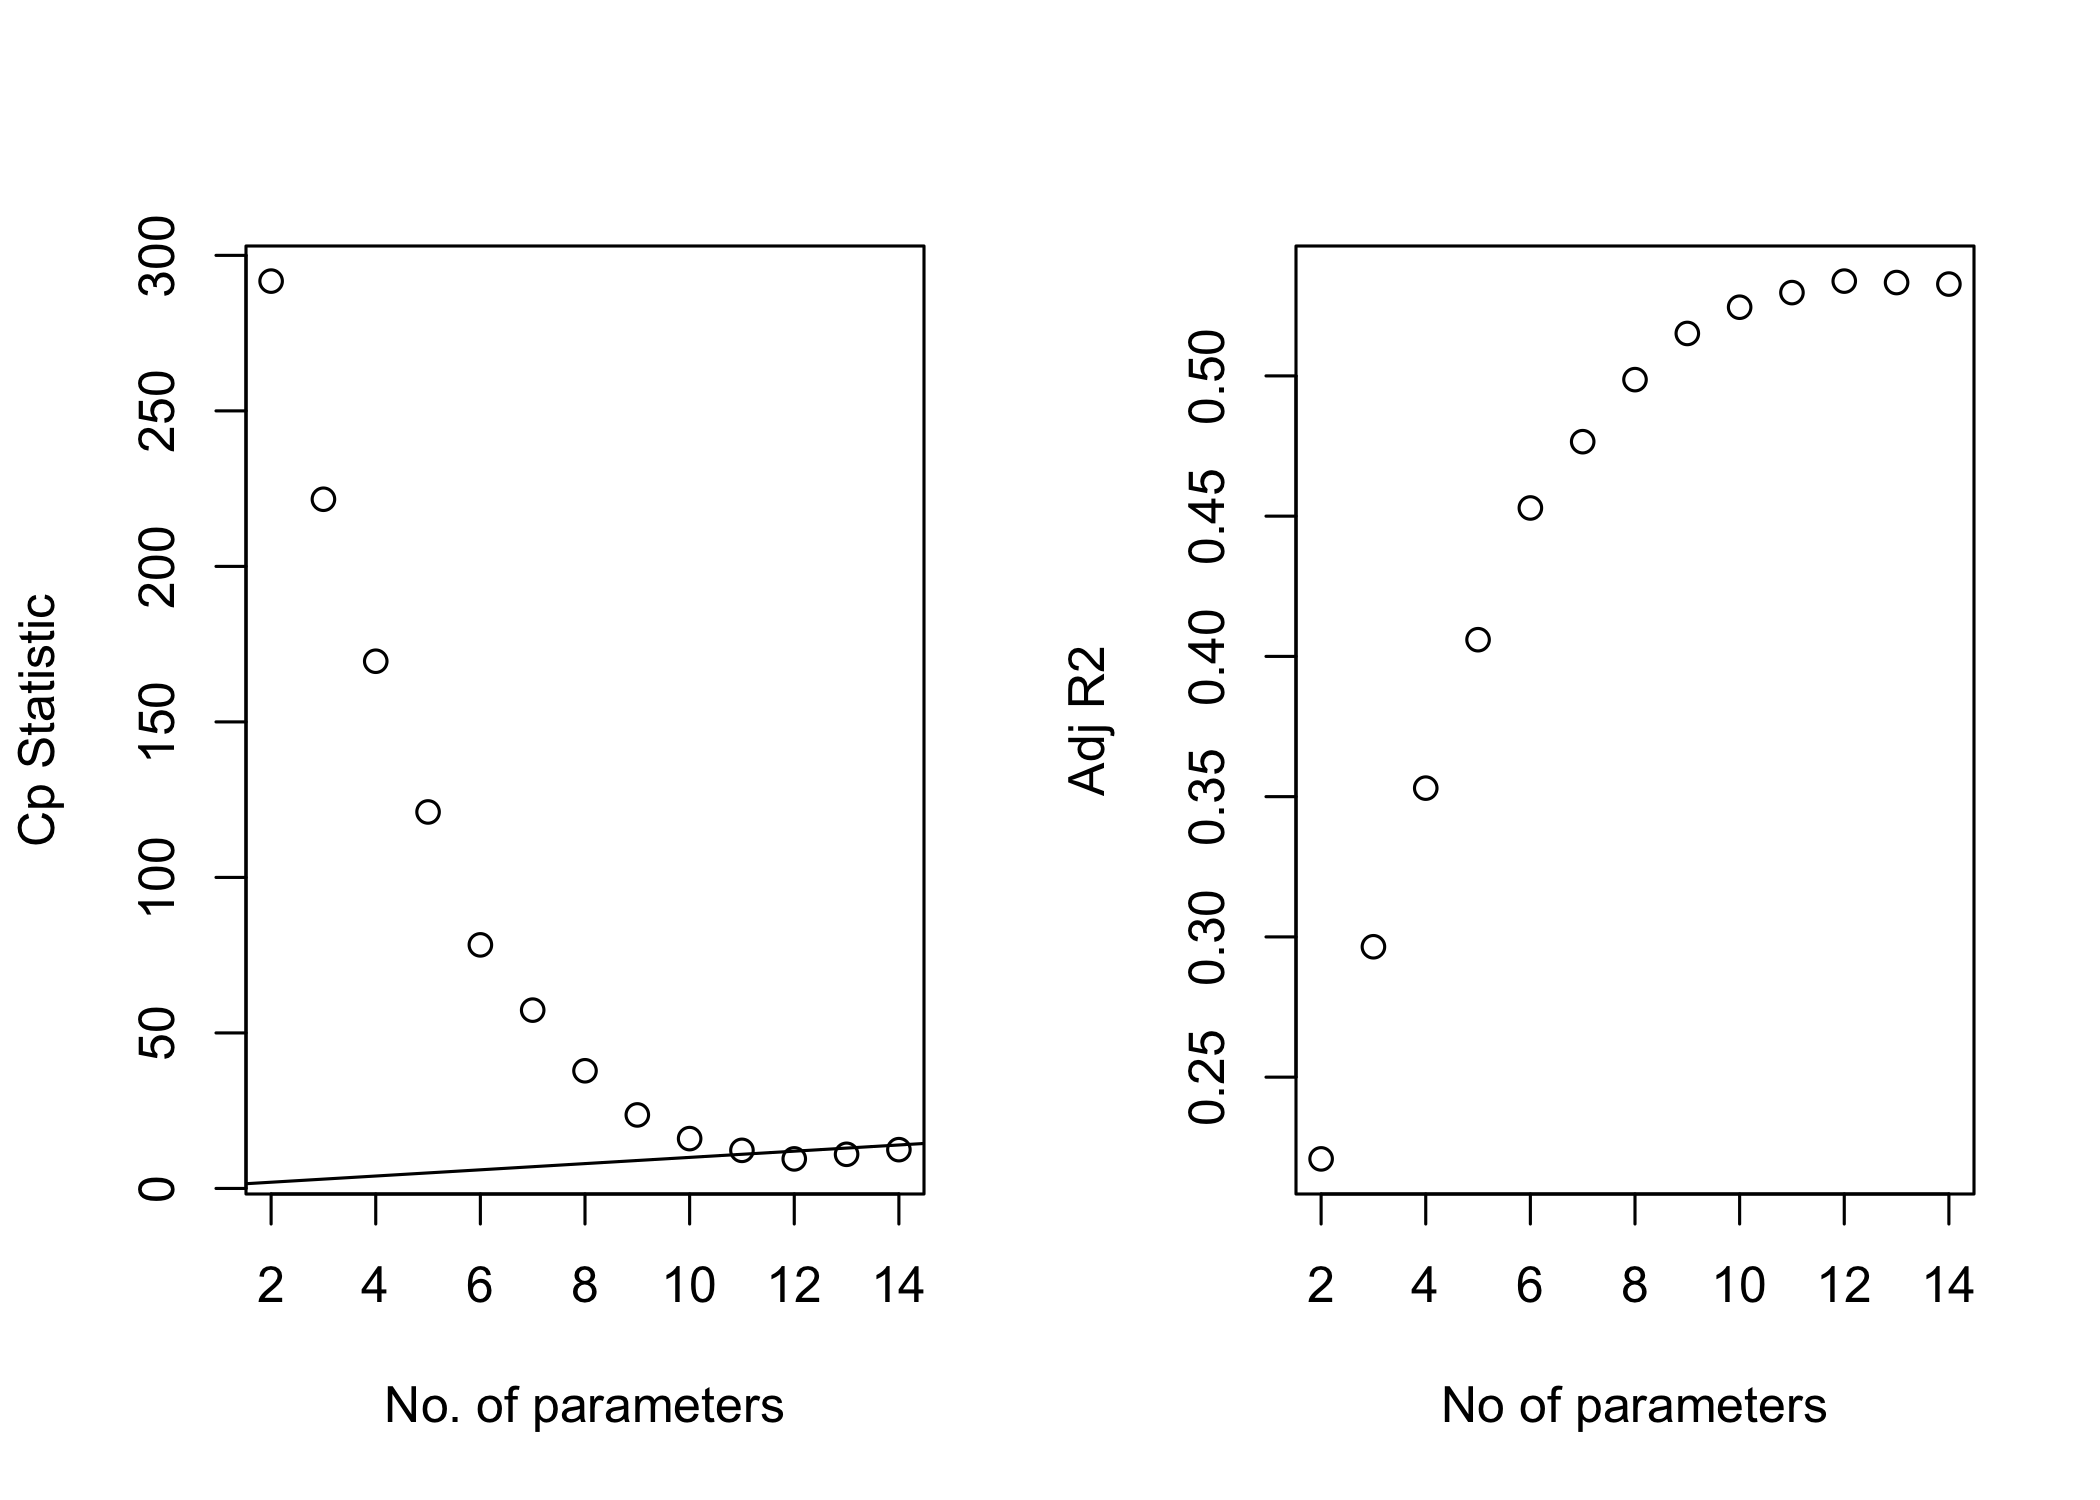
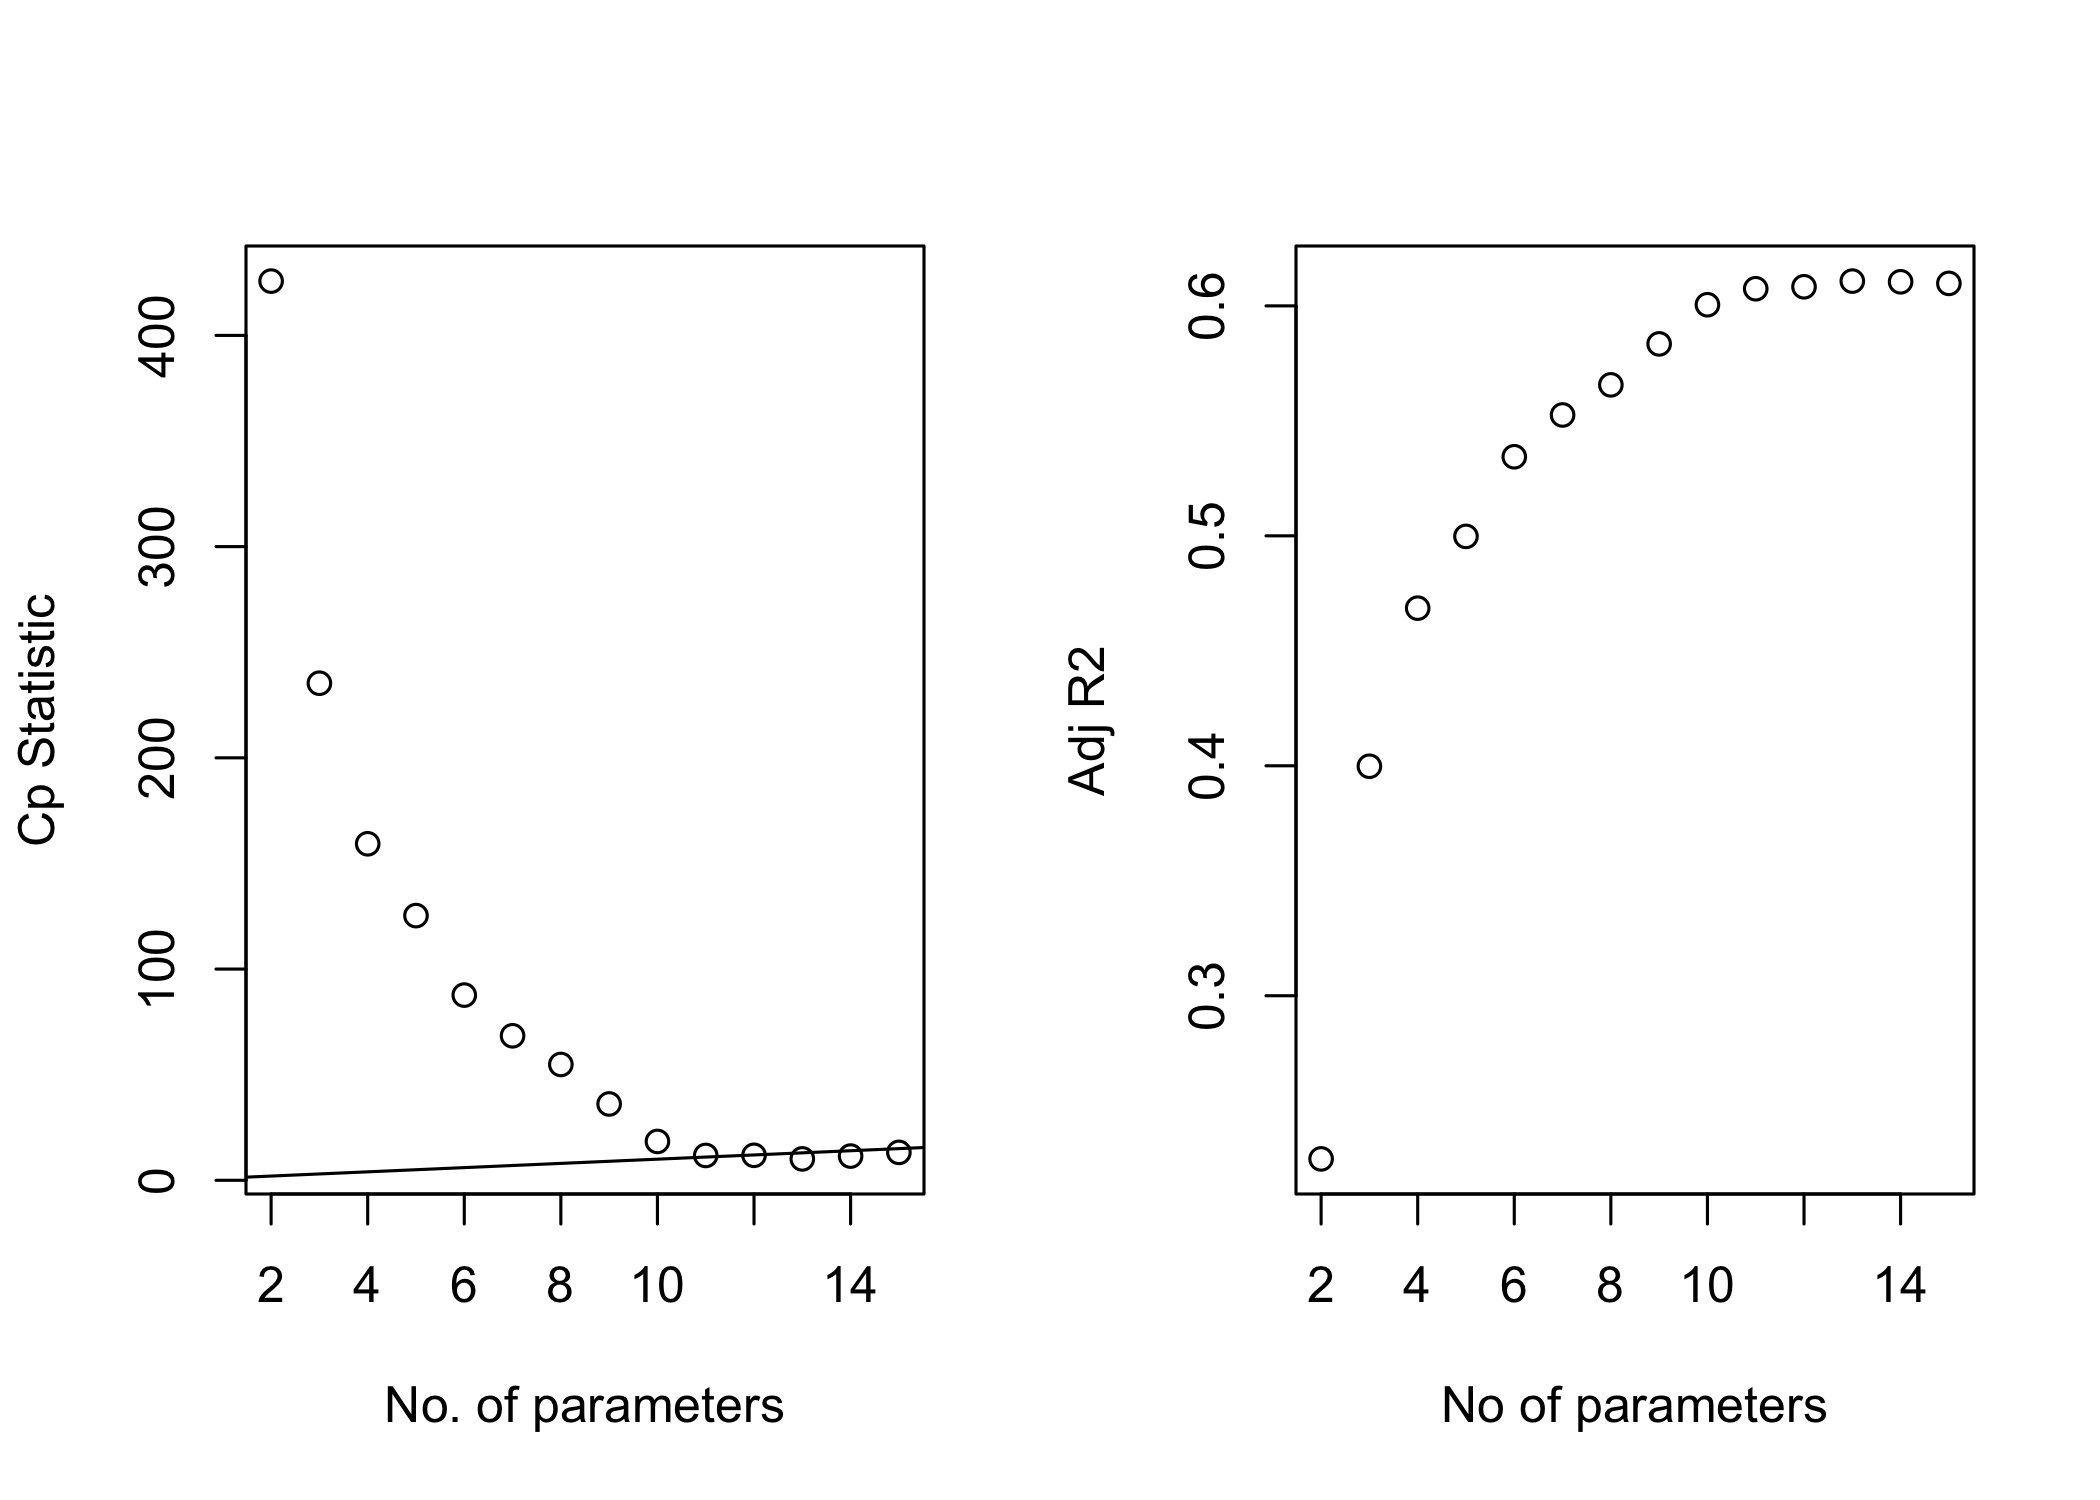
bestsub select with density

diff --git a/main.md b/main.md
@@ -44,14 +44,14 @@ cdi_data = read_csv("./data/cdi.csv") %>%
 knitr::kable(head(cdi_data))
 ```
 
-|  id | cty_state   | cty      | state | area |     pop | pop18 | pop65 | hsgrad | bagrad | poverty | unemp | pcincome | totalinc | region | docs_rate_1000 | beds_rate_1000 |    density | crime_rate_1000 |
-|----:|:------------|:---------|:------|-----:|--------:|------:|------:|-------:|-------:|--------:|------:|---------:|---------:|-------:|---------------:|---------------:|-----------:|----------------:|
-|   1 | Los_Ange,CA | Los_Ange | CA    | 4060 | 8863164 |  32.1 |   9.7 |   70.0 |   22.3 |    11.6 |   8.0 |    20786 |   184230 |      4 |       2.671394 |       3.125295 |  2183.0453 |        77.73026 |
-|   2 | Cook,IL     | Cook     | IL    |  946 | 5105067 |  29.2 |  12.4 |   73.4 |   22.8 |    11.1 |   7.2 |    21729 |   110928 |      2 |       2.968227 |       4.221296 |  5396.4767 |        85.58869 |
-|   3 | Harris,TX   | Harris   | TX    | 1729 | 2818199 |  31.3 |   7.1 |   74.9 |   25.4 |    12.5 |   5.7 |    19517 |    55003 |      3 |       2.680080 |       4.417360 |  1629.9589 |        89.96029 |
-|   4 | San_Dieg,CA | San_Dieg | CA    | 4205 | 2498016 |  33.5 |  10.9 |   81.9 |   25.3 |     8.1 |   6.1 |    19588 |    48931 |      4 |       2.363876 |       2.473563 |   594.0585 |        69.58362 |
-|   5 | Orange,CA   | Orange   | CA    |  790 | 2410556 |  32.6 |   9.2 |   81.2 |   27.8 |     5.2 |   4.8 |    24400 |    58818 |      4 |       2.514772 |       2.642129 |  3051.3367 |        59.95463 |
-|   6 | Kings,NY    | Kings    | NY    |   71 | 2300664 |  28.3 |  12.4 |   63.7 |   16.6 |    19.5 |   9.5 |    16803 |    38658 |      1 |       2.112868 |       3.886704 | 32403.7183 |       295.98672 |
+|  id | cty\_state   | cty       | state | area |     pop | pop18 | pop65 | hsgrad | bagrad | poverty | unemp | pcincome | totalinc | region | docs\_rate\_1000 | beds\_rate\_1000 |    density | crime\_rate\_1000 |
+|----:|:-------------|:----------|:------|-----:|--------:|------:|------:|-------:|-------:|--------:|------:|---------:|---------:|-------:|-----------------:|-----------------:|-----------:|------------------:|
+|   1 | Los\_Ange,CA | Los\_Ange | CA    | 4060 | 8863164 |  32.1 |   9.7 |   70.0 |   22.3 |    11.6 |   8.0 |    20786 |   184230 |      4 |         2.671394 |         3.125295 |  2183.0453 |          77.73026 |
+|   2 | Cook,IL      | Cook      | IL    |  946 | 5105067 |  29.2 |  12.4 |   73.4 |   22.8 |    11.1 |   7.2 |    21729 |   110928 |      2 |         2.968227 |         4.221296 |  5396.4767 |          85.58869 |
+|   3 | Harris,TX    | Harris    | TX    | 1729 | 2818199 |  31.3 |   7.1 |   74.9 |   25.4 |    12.5 |   5.7 |    19517 |    55003 |      3 |         2.680080 |         4.417360 |  1629.9589 |          89.96029 |
+|   4 | San\_Dieg,CA | San\_Dieg | CA    | 4205 | 2498016 |  33.5 |  10.9 |   81.9 |   25.3 |     8.1 |   6.1 |    19588 |    48931 |      4 |         2.363876 |         2.473563 |   594.0585 |          69.58362 |
+|   5 | Orange,CA    | Orange    | CA    |  790 | 2410556 |  32.6 |   9.2 |   81.2 |   27.8 |     5.2 |   4.8 |    24400 |    58818 |      4 |         2.514772 |         2.642129 |  3051.3367 |          59.95463 |
+|   6 | Kings,NY     | Kings     | NY    |   71 | 2300664 |  28.3 |  12.4 |   63.7 |   16.6 |    19.5 |   9.5 |    16803 |    38658 |      1 |         2.112868 |         3.886704 | 32403.7183 |         295.98672 |
 
 ### Step 2 - Exploratory Analysis
 
@@ -127,9 +127,9 @@ crime_1000_cor = data.frame(cdi_data_cor) %>%
 knitr::kable(crime_1000_cor,digits = 2) 
 ```
 
-|                       | area |  pop | pop18 | pop65 | hsgrad | bagrad | poverty | unemp | pcincome | totalinc | docs_rate_1000 | beds_rate_1000 | density | crime_rate_1000 |
-|:----------------------|-----:|-----:|------:|------:|-------:|-------:|--------:|------:|---------:|---------:|---------------:|---------------:|--------:|----------------:|
-| Crime Rate (Per 1000) | 0.04 | 0.28 |  0.19 | -0.07 |  -0.23 |   0.04 |    0.47 |  0.04 |    -0.08 |     0.23 |           0.31 |           0.36 |    0.48 |               1 |
+|                       | area |  pop | pop18 | pop65 | hsgrad | bagrad | poverty | unemp | pcincome | totalinc | docs\_rate\_1000 | beds\_rate\_1000 | density | crime\_rate\_1000 |
+|:----------------------|-----:|-----:|------:|------:|-------:|-------:|--------:|------:|---------:|---------:|-----------------:|-----------------:|--------:|------------------:|
+| Crime Rate (Per 1000) | 0.04 | 0.28 |  0.19 | -0.07 |  -0.23 |   0.04 |    0.47 |  0.04 |    -0.08 |     0.23 |             0.31 |             0.36 |    0.48 |                 1 |
 
 ### Model construction
 
@@ -385,34 +385,34 @@ both = step(full.fit, direction = "both") %>% broom::tidy() %>% rename(stepwise 
 bind_cols(backward[-1,1],both[-1,1]) %>% knitr::kable()
 ```
 
-| backward       | stepwise       |
-|:---------------|:---------------|
-| pop            | pop            |
-| pop18          | pop18          |
-| hsgrad         | hsgrad         |
-| bagrad         | bagrad         |
-| poverty        | poverty        |
-| pcincome       | pcincome       |
-| totalinc       | totalinc       |
-| region2        | region2        |
-| region3        | region3        |
-| region4        | region4        |
-| beds_rate_1000 | beds_rate_1000 |
-| density        | density        |
+| backward         | stepwise         |
+|:-----------------|:-----------------|
+| pop              | pop              |
+| pop18            | pop18            |
+| hsgrad           | hsgrad           |
+| bagrad           | bagrad           |
+| poverty          | poverty          |
+| pcincome         | pcincome         |
+| totalinc         | totalinc         |
+| region2          | region2          |
+| region3          | region3          |
+| region4          | region4          |
+| beds\_rate\_1000 | beds\_rate\_1000 |
+| density          | density          |
 
 ## Criteria based selection
 
-selected var: area pop pop18 hsgrad bagrad poverty pcincome totalinc
-region beds_rate_1000
+pop pop18 hsgrad bagrad poverty pcincome totalinc region
+beds\_rate\_1000 density
 
 ``` r
-sb = regsubsets(crime_rate_1000 ~ ., data = cdi_model, nvmax = 13)
-sumsb = summary(sb) # area pop pop18 hsgrad bagrad poverty pcincome totalinc region beds_rate_1000
+sb = regsubsets(crime_rate_1000 ~ ., data = cdi_model, nvmax = 14)
+sumsb = summary(sb) # pop pop18 hsgrad bagrad poverty pcincome totalinc region beds_rate_1000 density
 sumsb
 ```
 
     ## Subset selection object
-    ## Call: regsubsets.formula(crime_rate_1000 ~ ., data = cdi_model, nvmax = 13)
+    ## Call: regsubsets.formula(crime_rate_1000 ~ ., data = cdi_model, nvmax = 14)
     ## 16 Variables  (and intercept)
     ##                Forced in Forced out
     ## area               FALSE      FALSE
@@ -431,7 +431,7 @@ sumsb
     ## docs_rate_1000     FALSE      FALSE
     ## beds_rate_1000     FALSE      FALSE
     ## density            FALSE      FALSE
-    ## 1 subsets of each size up to 13
+    ## 1 subsets of each size up to 14
     ## Selection Algorithm: exhaustive
     ##           area pop pop18 pop65 hsgrad bagrad poverty unemp pcincome totalinc
     ## 1  ( 1 )  " "  " " " "   " "   " "    " "    " "     " "   " "      " "     
@@ -447,6 +447,7 @@ sumsb
     ## 11  ( 1 ) " "  "*" "*"   " "   " "    "*"    "*"     " "   "*"      "*"     
     ## 12  ( 1 ) " "  "*" "*"   " "   "*"    "*"    "*"     " "   "*"      "*"     
     ## 13  ( 1 ) " "  "*" "*"   " "   "*"    "*"    "*"     "*"   "*"      "*"     
+    ## 14  ( 1 ) "*"  "*" "*"   " "   "*"    "*"    "*"     "*"   "*"      "*"     
     ##           region2 region3 region4 docs_rate_1000 beds_rate_1000 density
     ## 1  ( 1 )  " "     " "     " "     " "            " "            "*"    
     ## 2  ( 1 )  " "     " "     " "     " "            " "            "*"    
@@ -460,15 +461,16 @@ sumsb
     ## 10  ( 1 ) "*"     "*"     "*"     " "            "*"            "*"    
     ## 11  ( 1 ) "*"     "*"     "*"     " "            "*"            "*"    
     ## 12  ( 1 ) "*"     "*"     "*"     " "            "*"            "*"    
-    ## 13  ( 1 ) "*"     "*"     "*"     " "            "*"            "*"
+    ## 13  ( 1 ) "*"     "*"     "*"     " "            "*"            "*"    
+    ## 14  ( 1 ) "*"     "*"     "*"     " "            "*"            "*"
 
 ``` r
 # plot of Cp and Adj-R2 as functions of parameters
 par(mfrow=c(1,2))
-plot(2:14, sumsb$cp, xlab="No. of parameters", ylab="Cp Statistic") 
+plot(2:15, sumsb$cp, xlab="No. of parameters", ylab="Cp Statistic") 
 abline(0,1)
 
-plot(2:14, sumsb$adjr2, xlab="No of parameters", ylab="Adj R2")
+plot(2:15, sumsb$adjr2, xlab="No of parameters", ylab="Adj R2")
 ```
 
 ![](main_files/figure-gfm/unnamed-chunk-3-1.png)<!-- -->
@@ -616,7 +618,7 @@ summary(cdi_region)
 
 ## Interaction
 
-Does the relationship between the crime_rate_1000 and poverty vary by
+Does the relationship between the crime\_rate\_1000 and poverty vary by
 region status?
 
 ``` r
